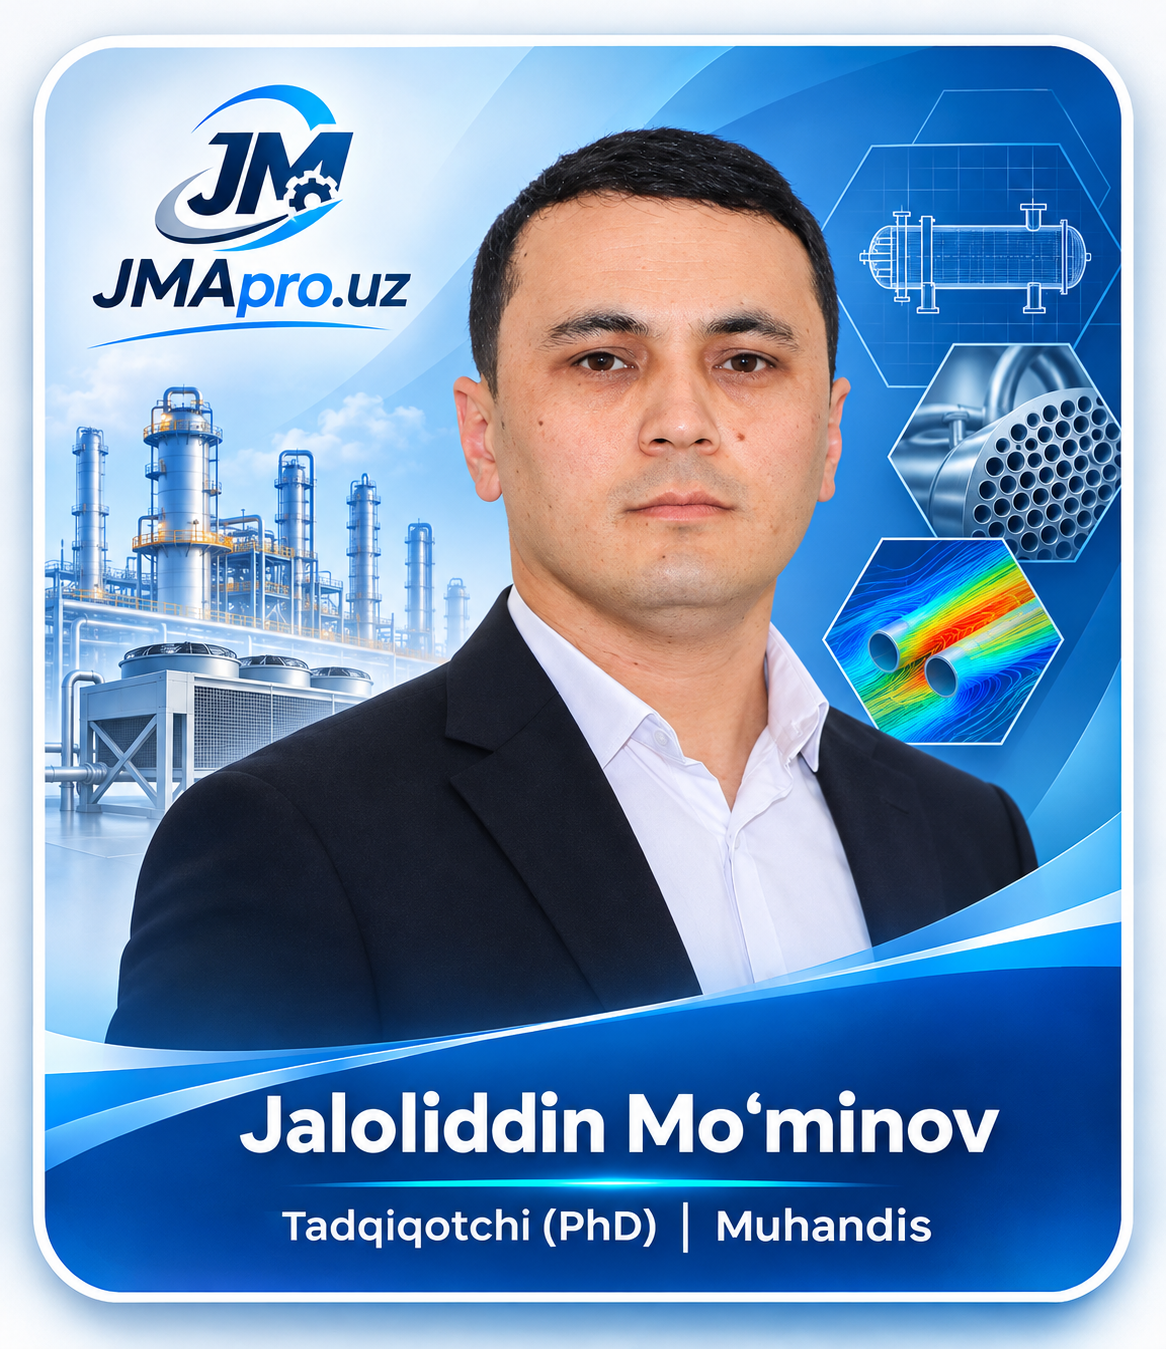
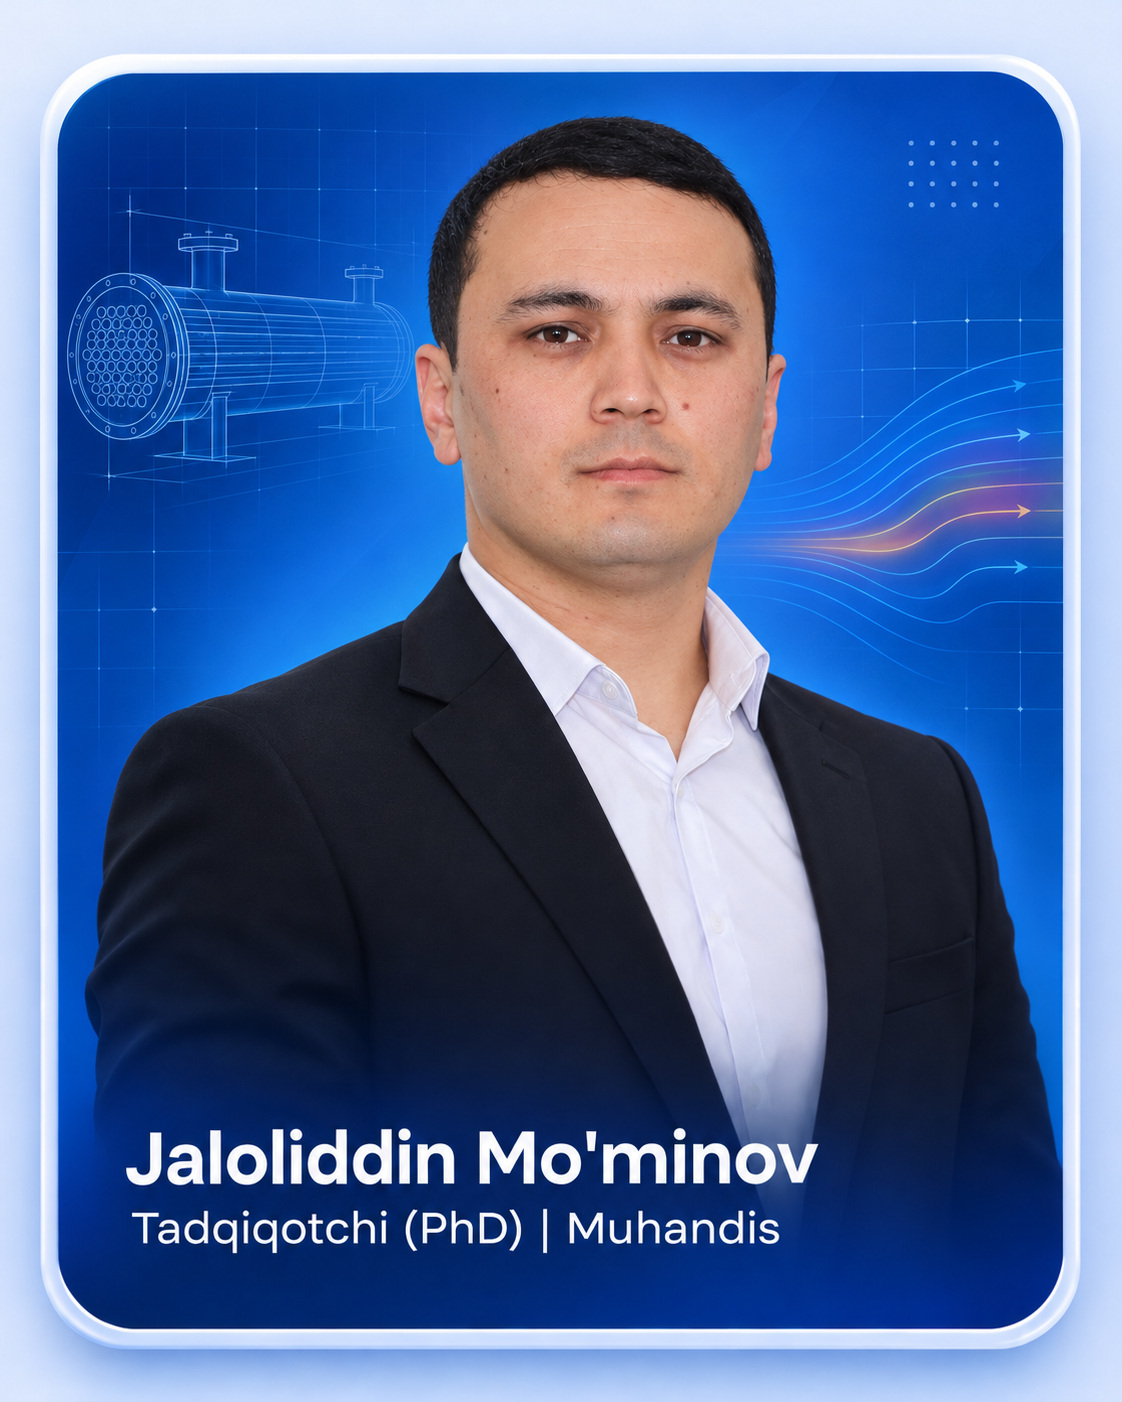
feat: apply new 3D portrait card JMApro_3D_portret_1variant_yuz

diff --git a/index.html b/index.html
@@ -183,10 +183,10 @@
 
                         <!-- Asosiy Foto Kartasi -->
                         <div class="relative bg-white p-2.5 sm:p-3 rounded-3xl shadow-2xl border border-slate-200/80">
-                            <div class="rounded-2xl overflow-hidden bg-slate-950 relative group">
+                            <div class="rounded-2xl overflow-hidden bg-white relative group">
                                 <picture>
                                     <source srcset="images/profile.webp" type="image/webp">
-                                    <img src="images/Profile2.png" alt="Mo'minov Jaloliddin Azizjon o'g'li - PhD Tadqiqotchi va Muhandis" class="w-full h-auto object-cover transition duration-500 group-hover:scale-[1.02]">
+                                    <img src="images/JMApro_3D_portret_1variant_yuz.jpg" alt="Mo'minov Jaloliddin Azizjon o'g'li - PhD Tadqiqotchi va Muhandis" class="w-full h-auto object-cover transition duration-500 group-hover:scale-[1.02]">
                                 </picture>
                             </div>
 
@@ -201,8 +201,8 @@
                                 </div>
                             </div>
 
-                            <!-- Floating Badge 2: Holat (Pastki chap) -->
-                            <div class="absolute -bottom-3 -left-3 bg-white/95 backdrop-blur-md border border-slate-200/90 shadow-xl rounded-2xl px-4 py-2.5 flex items-center space-x-2.5">
+                            <!-- Floating Badge 2: Holat (Pastki o'ng - ism va unvonni to'sib qo'ymasligi uchun) -->
+                            <div class="absolute -bottom-3 -right-3 bg-white/95 backdrop-blur-md border border-slate-200/90 shadow-xl rounded-2xl px-4 py-2.5 flex items-center space-x-2.5">
                                 <span class="w-3 h-3 rounded-full bg-emerald-500 ring-4 ring-emerald-100 animate-pulse"></span>
                                 <div>
                                     <div class="text-xs font-bold text-slate-900">Ilmiy Maslahat</div>
